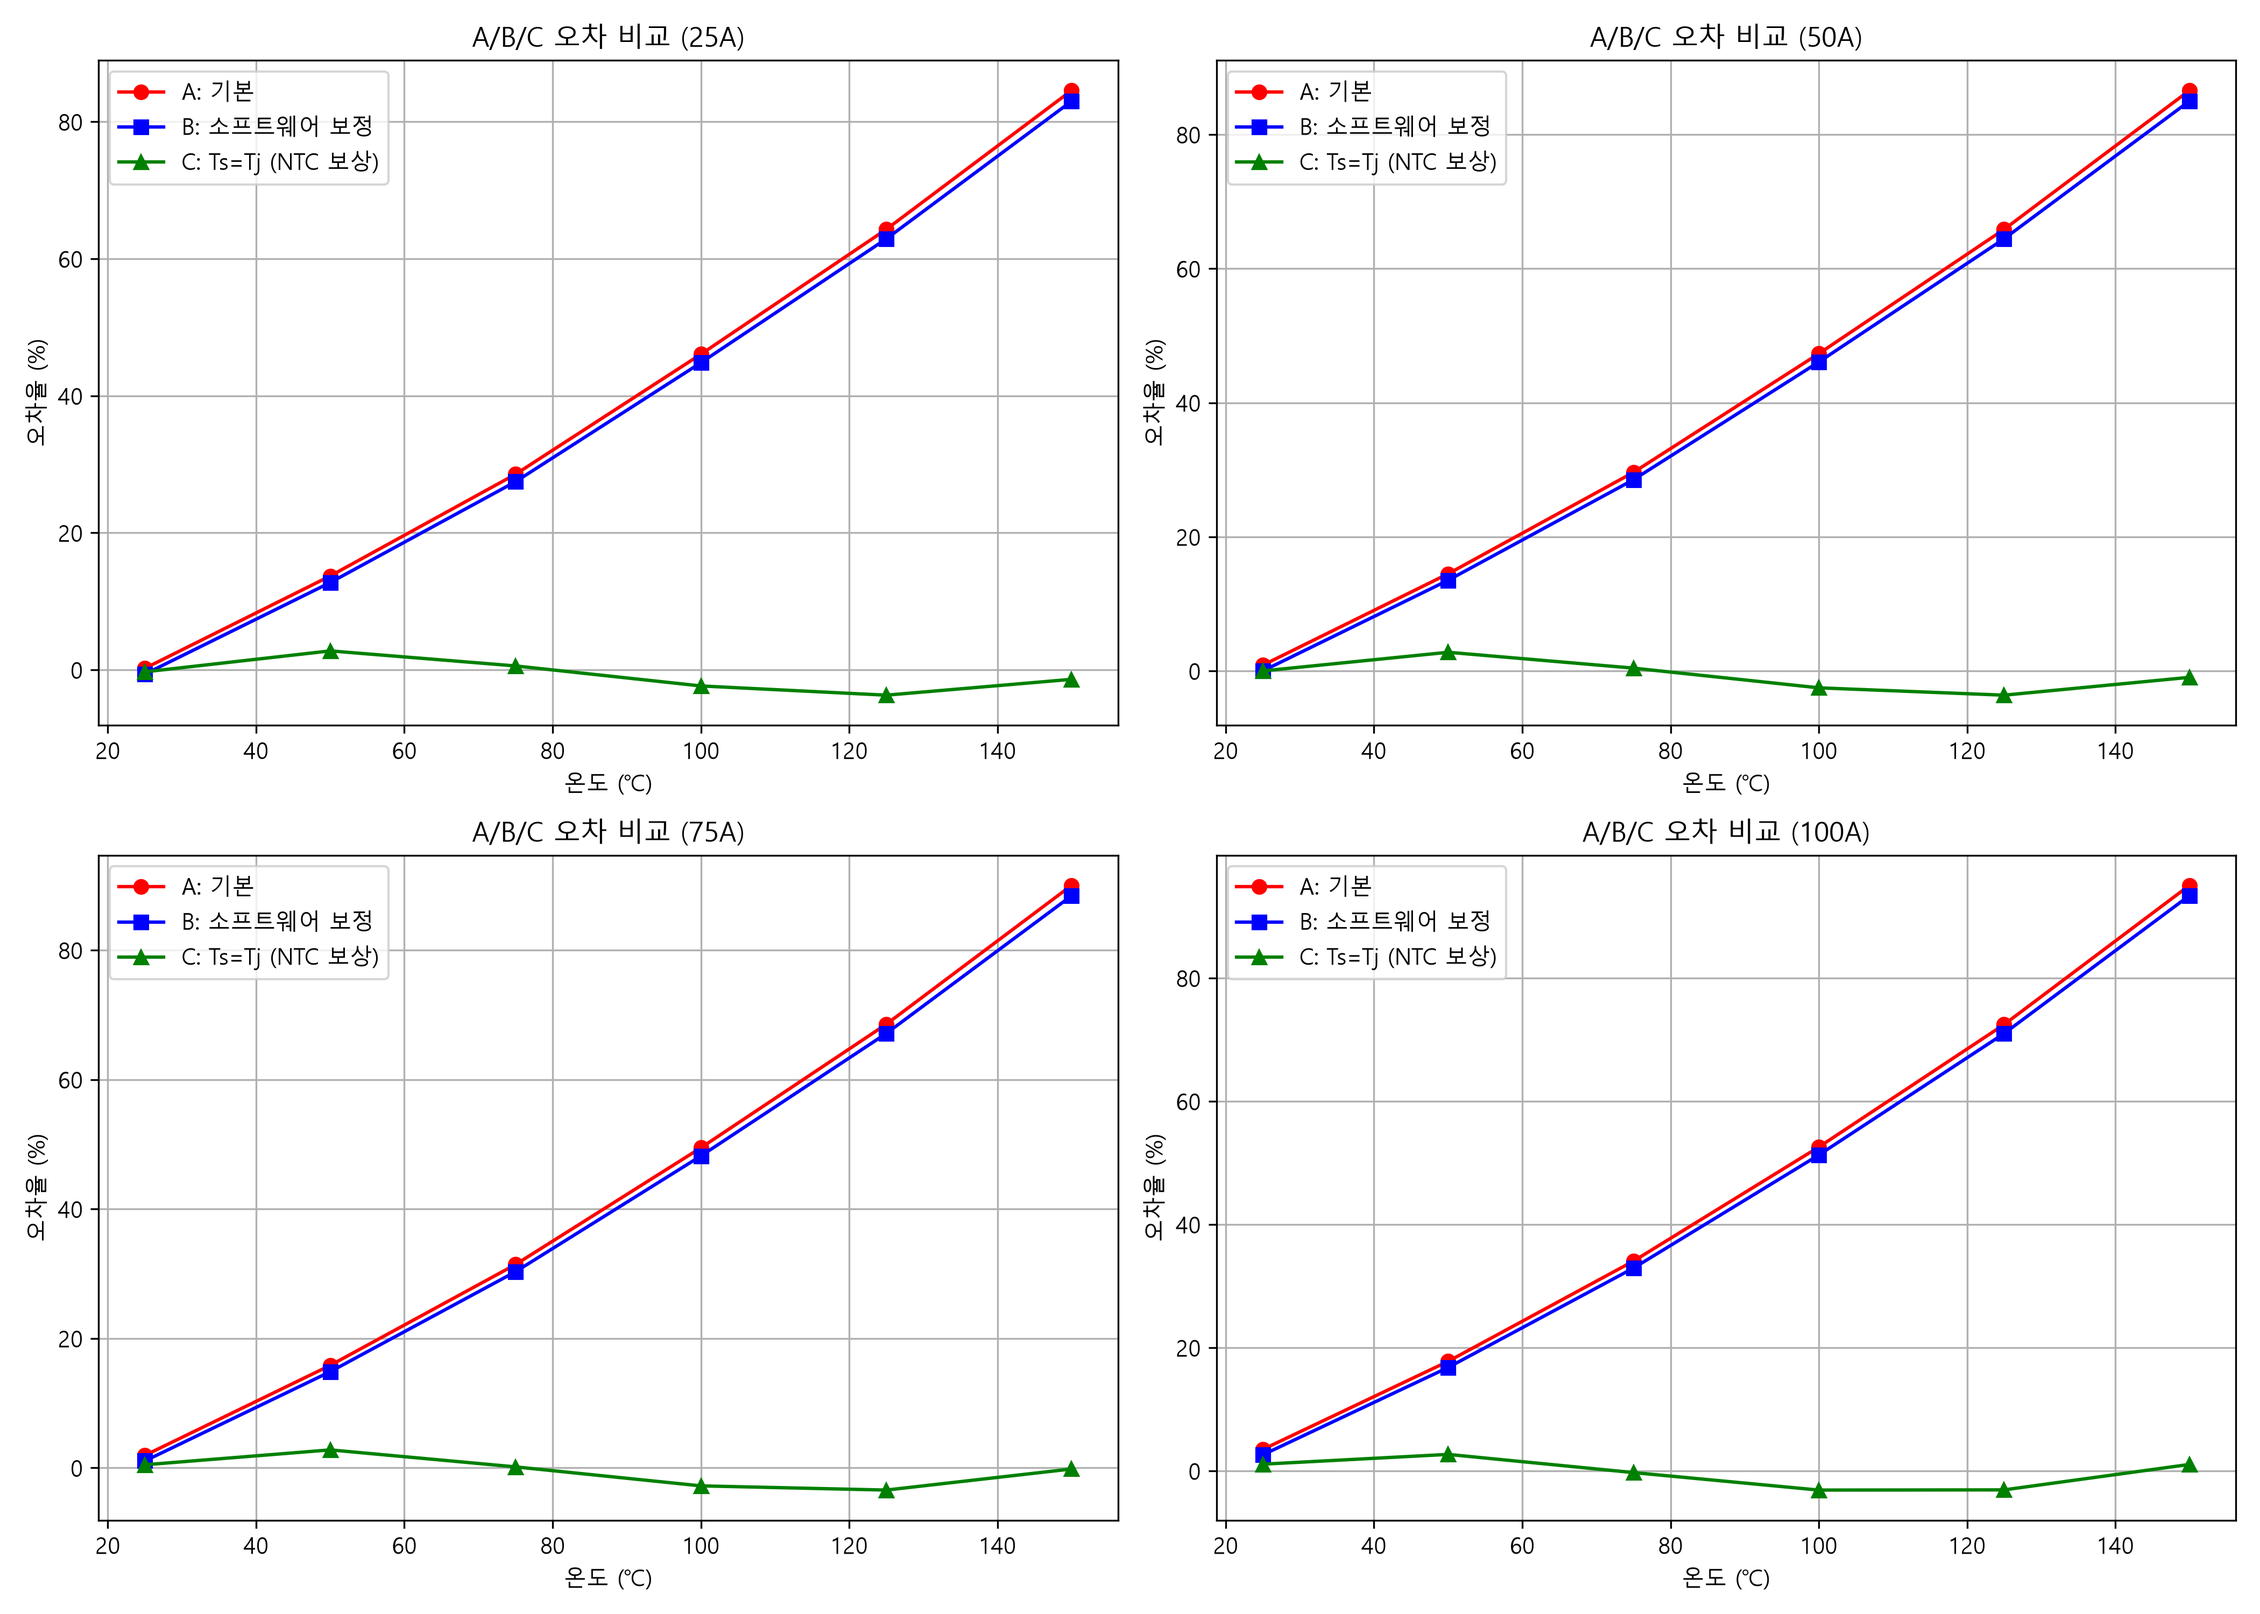
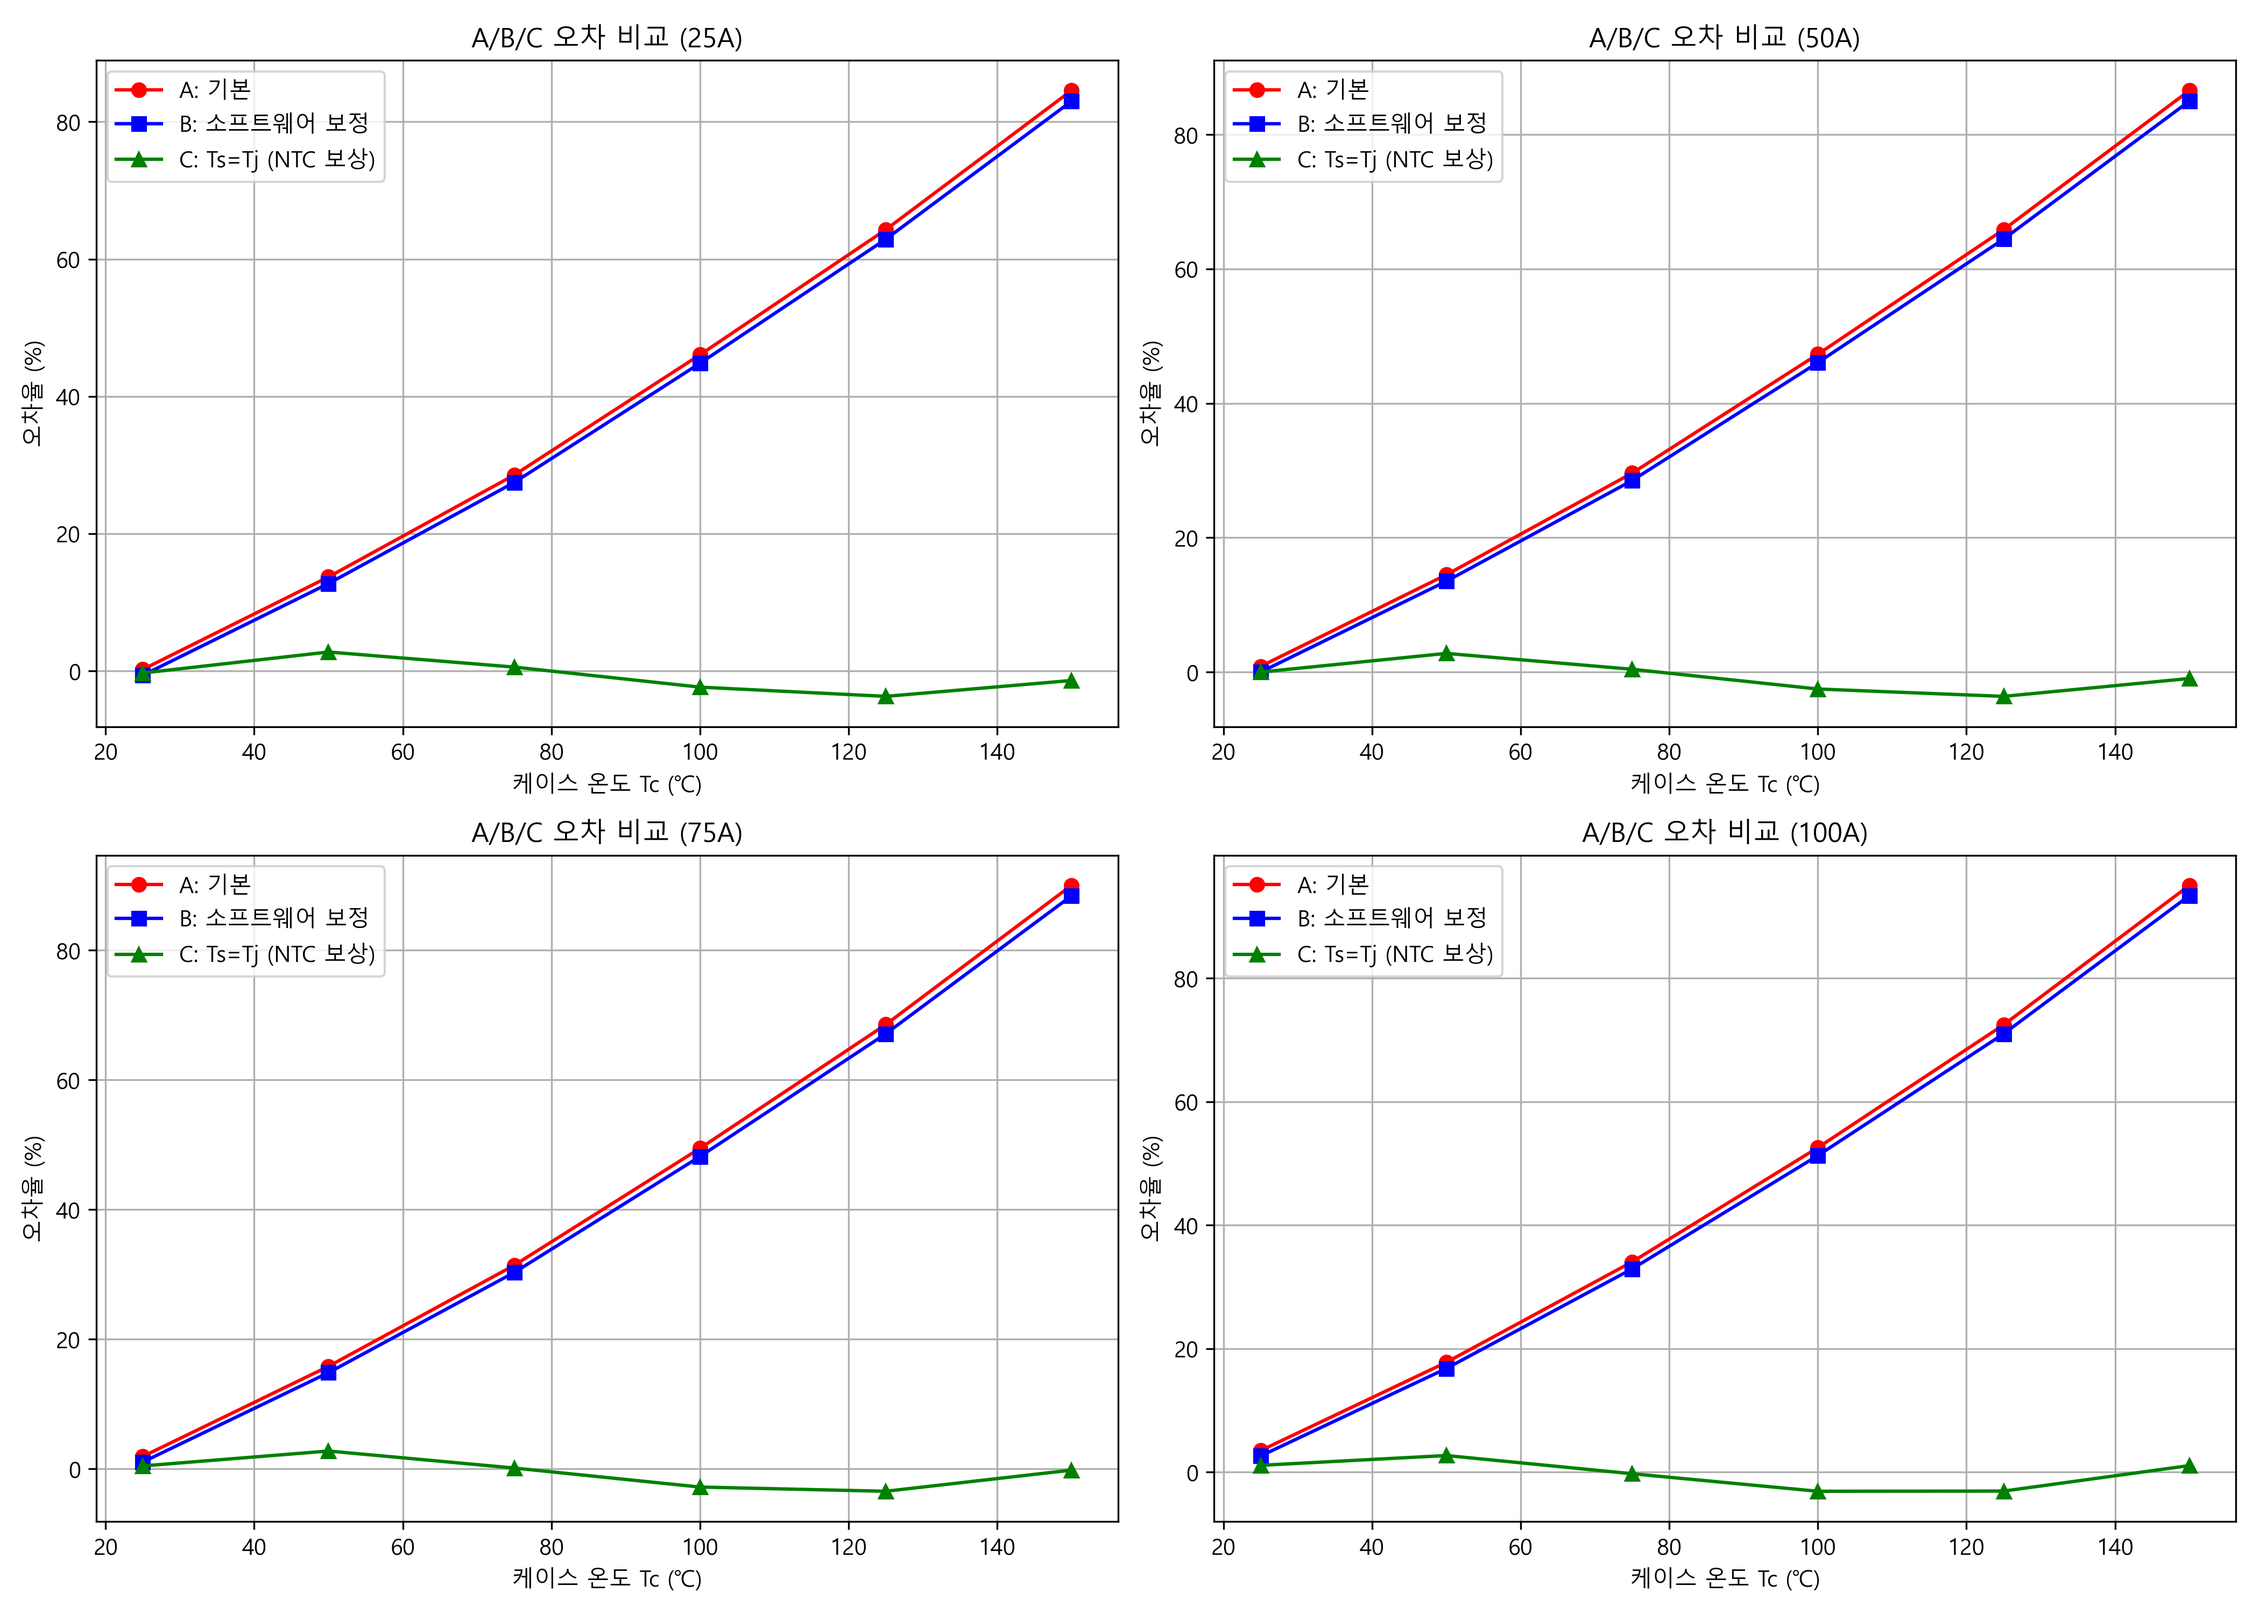
Clarify calibration labels and error reporting

diff --git a/analysis/calibration.py b/analysis/calibration.py
@@ -37,7 +37,7 @@ df['I_est_A'] = df['V_pre (V)'] / (gain_c * R_ref)
 df['오차율_A(%)'] = ((df['I_est_A'] - df['I_true (A)']) / df['I_true (A)']) * 100
 df['오차_A(A)'] = df['I_est_A'] - df['I_true (A)']
 
-# [Case B] 소프트웨어 영점 보정 (V_pre 기준점 보정)
+# [Case B] 기준점 이득 보정 (50 A, Tc=25°C) 
 ref_row = df[(df['I_true (A)'] == 50) & (df['Tc (°C)'] == 25)].iloc[0]
 V_pre_cal = ref_row['V_pre (V)']
 
@@ -64,19 +64,41 @@ df['오차_C_Tc(A)'] = df['I_est_C_Tc'] - df['I_true (A)']
 # 3. 4가지 검증 지표 계산 함수 (기준점 50A, 25℃ 제외)
 # ==========================================
 def print_metrics(name, col_est, col_err_pct):
-    # 검증에서 기준점(50A, 25℃) 제외
-    mask = ~((df['I_true (A)'] == 50) & (df['Tc (°C)'] == 25))
+    mask = ~(
+        (df['I_true (A)'] == 50)
+        & (df['Tc (°C)'] == 25)
+    )
+
     eval_df = df[mask]
-    
-    abs_err_A = (eval_df[col_est] - eval_df['I_true (A)']).abs()
+
+    abs_err_A = (
+        eval_df[col_est] - eval_df['I_true (A)']
+    ).abs()
+
+    abs_err_pct = eval_df[col_err_pct].abs()
+
     mae = abs_err_A.mean()
     max_abs = abs_err_A.max()
-    max_rel = eval_df[col_err_pct].abs().max()
-    
-    max_idx = abs_err_A.idxmax()
-    cond = f"{eval_df.loc[max_idx, 'I_true (A)']}A, {eval_df.loc[max_idx, 'Tc (°C)']}℃"
-    
-    print(f"[{name}] MAE: {mae:.2f}A | 최대절대오차: {max_abs:.2f}A | 최대상대오차: {max_rel:.2f}% | 발생조건: {cond}")
+    max_rel = abs_err_pct.max()
+
+    max_A_idx = abs_err_A.idxmax()
+    max_pct_idx = abs_err_pct.idxmax()
+
+    cond_A = (
+        f"{eval_df.loc[max_A_idx, 'I_true (A)']} A, "
+        f"Tc={eval_df.loc[max_A_idx, 'Tc (°C)']}°C"
+    )
+
+    cond_pct = (
+        f"{eval_df.loc[max_pct_idx, 'I_true (A)']} A, "
+        f"Tc={eval_df.loc[max_pct_idx, 'Tc (°C)']}°C"
+    )
+
+    print(f"[{name}]")
+    print(f"MAE: {mae:.2f} A")
+    print(f"최대 절대오차: {max_abs:.2f} A / 조건: {cond_A}")
+    print(f"최대 절대 상대오차: {max_rel:.2f}% / 조건: {cond_pct}")
+    print()
 
 print("=== 검증 지표 요약 (50A, 25℃ 제외) ===")
 print_metrics("Case A", 'I_est_A', '오차율_A(%)')
@@ -101,7 +123,20 @@ tstc_table.to_csv('results/tables/sensor_temperature_comparison.csv', index=Fals
 
 # 4-3. 보정 계수 JSON
 cal_coeff = {
-    "reference_condition": {"Current (A)": 50, "Temperature (C)": 25},
+    "reference_condition": {
+        "I_true_A": 50,
+        "Tc_C": 25,
+        "Ts_condition": "Ts=Tj",
+        "Ts_C": float(ref_row["Ts (°C)"])
+    },
+    "reference_outputs": {
+        "V_pre_V": float(V_pre_cal),
+        "V_final_V": float(ref_row["V_final_Tj"])
+    },
+    "raw_conversion": {
+        "R_ref_ohm": float(R_ref),
+        "gain": float(gain_c)
+    },
     "K_C (Calibration Coefficient)": float(K_C)
 }
 with open('results/tables/calibration_coefficients.json', 'w') as f:
@@ -123,7 +158,7 @@ for i, cur in enumerate(target_currents):
     ax.plot(sub['Tc (°C)'], sub['오차율_B(%)'], 'bs-', label='B: 소프트웨어 보정')
     ax.plot(sub['Tc (°C)'], sub['오차율_C_Tj(%)'], 'g^-', label='C: Ts=Tj (NTC 보상)')
     ax.set_title(f'A/B/C 오차 비교 ({cur}A)')
-    ax.set_xlabel('온도 (℃)'); ax.set_ylabel('오차율 (%)'); ax.grid(True); ax.legend()
+    ax.set_xlabel('케이스 온도 Tc (℃)'); ax.set_ylabel('오차율 (%)'); ax.grid(True); ax.legend()
 plt.tight_layout()
 plt.savefig('results/figures/abc_error_vs_tc.png', dpi=300)
 
@@ -136,7 +171,7 @@ for i, cur in enumerate(target_currents):
     ax.plot(sub['Tc (°C)'], sub['오차율_C_Tj(%)'], marker='^', linestyle='-', color='green', label='C: Ts=Tj (온도 일치)')
     ax.plot(sub['Tc (°C)'], sub['오차율_C_Tc(%)'], marker='x', linestyle='--', color='orange', label='C: Ts=Tc (온도 불일치)')
     ax.set_title(f'센서 온도 불일치 영향 ({cur}A)')
-    ax.set_xlabel('주위 온도 Tc (℃)'); ax.set_ylabel('오차율 (%)'); ax.grid(True); ax.legend()
+    ax.set_xlabel('케이스 온도 Tc (℃)'); ax.set_ylabel('오차율 (%)'); ax.grid(True); ax.legend()
 plt.tight_layout()
 plt.savefig('results/figures/sensor_temperature_error_vs_tc.png', dpi=300)
 
